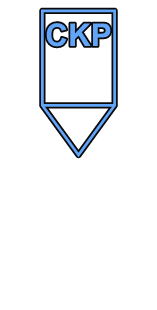
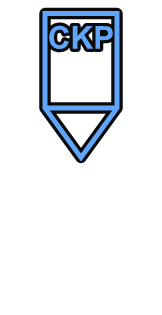
fix: actually thicken point symbol lines; match the LZ ring to them
milsymbol ignores strokeWidth for tactical points (fixed 3-unit
lines), so the earlier setting never reached CKP/SP/OP/TRP while the
hand-drawn LZ followed it and came out about three times as thick.
Scale the strokes in the generated SVG by 1.8 instead, pad the canvas
for them, and draw the LZ from the same base weight.

Changed region(s): [[0.2293, 0.0, 0.7643, 0.5226]]

diff --git a/scripts/build-symbols.ts b/scripts/build-symbols.ts
@@ -28,15 +28,22 @@ mkdirSync(OUT_DIR, { recursive: true });
 
 /** milsymbol halo width for point symbols, in its drawing units. */
 const POINT_OUTLINE_WIDTH = 2;
-/** milsymbol line weight for point symbols (its default is 4); thicker reads better on imagery. */
-const POINT_STROKE_WIDTH = 10;
+/** milsymbol draws tactical points with 3-unit lines and ignores `strokeWidth` for them. */
+const POINT_BASE_LINE = 3;
+/** We scale every stroke of a point symbol by this, so the lines read on imagery. */
+const POINT_LINE_SCALE = 1.8;
 /** milsymbol line weight for unit frames and icons (default 4). */
 const UNIT_STROKE_WIDTH = 6;
 /** milsymbol units per px at @1x: it draws on a 100-unit grid scaled to SYMBOL_SIZE. */
 const PX_PER_UNIT = SYMBOL_SIZE / 100;
-/** The point line weight and its halo in px, so the hand-drawn LZ matches milsymbol's symbols. */
-const POINT_LINE_PX = POINT_STROKE_WIDTH * PX_PER_UNIT;
-const POINT_HALO_PX = POINT_OUTLINE_WIDTH * PX_PER_UNIT;
+/** The point line weight and its halo in px, so the hand-drawn LZ matches the scaled milsymbol points. */
+const POINT_LINE_PX = POINT_BASE_LINE * POINT_LINE_SCALE * PX_PER_UNIT;
+const POINT_HALO_PX = POINT_OUTLINE_WIDTH * POINT_LINE_SCALE * PX_PER_UNIT;
+
+/** Multiply every stroke width in milsymbol's SVG (lines and their halo). */
+function thickenStrokes(svg: string, factor: number): string {
+  return svg.replace(/stroke-width="([\d.]+)"/g, (_, w: string) => `stroke-width="${Number(w) * factor}"`);
+}
 
 function writePng(sidc: string, svg: string) {
   for (const scale of [1, 2, 3]) {
@@ -50,14 +57,17 @@ function writePng(sidc: string, svg: string) {
  * Tactical points are anchored where the graphic marks the spot (a checkpoint's bottom tip), but
  * the map centers every image on its coordinate. Pad the canvas so the anchor is the center.
  */
-function centeredOnAnchor(symbol: InstanceType<typeof ms.Symbol>): string {
+function centeredOnAnchor(symbol: InstanceType<typeof ms.Symbol>, lineScale: number): string {
   const { x, y } = symbol.getAnchor();
   const { width, height } = symbol.getSize();
-  const w = 2 * Math.max(x, width - x);
-  const h = 2 * Math.max(y, height - y);
+  // Thicker strokes reach past milsymbol's own bounds: pad the canvas and let them draw there.
+  const pad = POINT_HALO_PX + POINT_LINE_PX;
+  const w = 2 * Math.max(x, width - x) + 2 * pad;
+  const h = 2 * Math.max(y, height - y) + 2 * pad;
+  const inner = thickenStrokes(symbol.asSVG(), lineScale).replace('<svg ', '<svg overflow="visible" ');
   return (
     `<svg xmlns="http://www.w3.org/2000/svg" width="${w}" height="${h}" viewBox="0 0 ${w} ${h}">` +
-    `<g transform="translate(${w / 2 - x} ${h / 2 - y})">${symbol.asSVG()}</g></svg>`
+    `<g transform="translate(${w / 2 - x} ${h / 2 - y})">${inner}</g></svg>`
   );
 }
 
@@ -92,10 +102,10 @@ for (const type of POINT_TYPES) {
           new ms.Symbol(type.sidc, {
             size: SYMBOL_SIZE,
             monoColor: colors['point-symbol'],
-            strokeWidth: POINT_STROKE_WIDTH,
             outlineColor: colors['point-symbol-halo'],
             outlineWidth: POINT_OUTLINE_WIDTH,
           }),
+          POINT_LINE_SCALE,
         );
   writePng(type.sidc, svg);
 }
